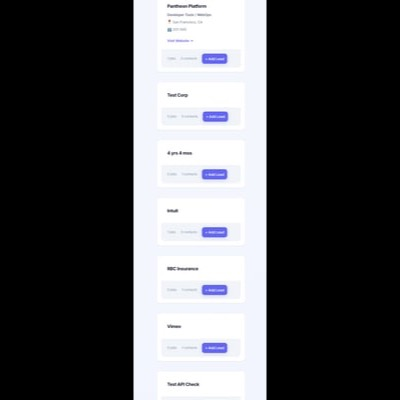
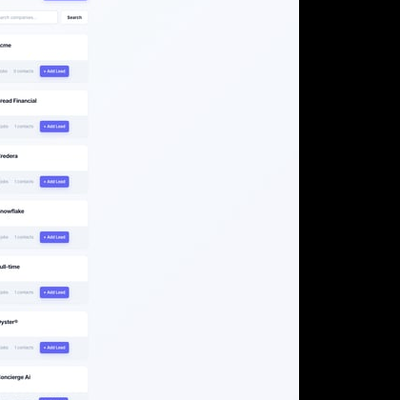
Update feature screenshots with browser chrome styling (WIP - companies needs retake)

diff --git a/preview-browser-chrome.html b/preview-browser-chrome.html
@@ -1,0 +1,99 @@
+<!DOCTYPE html>
+<html>
+<head>
+    <title>Browser Chrome Preview</title>
+    <style>
+        body {
+            background: #f5f5f5;
+            font-family: -apple-system, BlinkMacSystemFont, sans-serif;
+            padding: 40px;
+            display: flex;
+            flex-wrap: wrap;
+            gap: 24px;
+            justify-content: center;
+        }
+        h1 {
+            width: 100%;
+            text-align: center;
+            color: #333;
+        }
+        .feature-preview {
+            width: 320px;
+            border-radius: 12px;
+            overflow: hidden;
+            background: #1e1e2e;
+            box-shadow: 0 8px 32px rgba(0, 0, 0, 0.15), 0 2px 8px rgba(0, 0, 0, 0.1);
+            position: relative;
+        }
+        .feature-preview::before {
+            content: '';
+            display: block;
+            height: 36px;
+            background: linear-gradient(180deg, #3d3d4d 0%, #2d2d3d 100%);
+            border-bottom: 1px solid rgba(0, 0, 0, 0.2);
+        }
+        .feature-preview::after {
+            content: '';
+            position: absolute;
+            top: 13px;
+            left: 14px;
+            width: 10px;
+            height: 10px;
+            background: #ff5f57;
+            border-radius: 50%;
+            box-shadow: 
+                16px 0 0 #ffbd2e,
+                32px 0 0 #28c840;
+        }
+        .feature-preview img {
+            width: 100%;
+            height: auto;
+            display: block;
+        }
+        .label {
+            text-align: center;
+            margin-top: 8px;
+            font-size: 14px;
+            color: #666;
+        }
+    </style>
+</head>
+<body>
+    <h1>Feature Screenshots with Browser Chrome</h1>
+    
+    <div>
+        <div class="feature-preview">
+            <img src="src/web/static/img/features/pipeline.png" alt="Pipeline">
+        </div>
+        <div class="label">Visual Pipeline</div>
+    </div>
+    
+    <div>
+        <div class="feature-preview">
+            <img src="src/web/static/img/features/dashboard.png" alt="Dashboard">
+        </div>
+        <div class="label">Dashboard</div>
+    </div>
+    
+    <div>
+        <div class="feature-preview">
+            <img src="src/web/static/img/features/schedule.png" alt="Schedule">
+        </div>
+        <div class="label">Schedule</div>
+    </div>
+    
+    <div>
+        <div class="feature-preview">
+            <img src="src/web/static/img/features/contacts.png" alt="Contacts">
+        </div>
+        <div class="label">Contacts</div>
+    </div>
+    
+    <div>
+        <div class="feature-preview">
+            <img src="src/web/static/img/features/companies.png" alt="Companies">
+        </div>
+        <div class="label">Companies</div>
+    </div>
+</body>
+</html>
